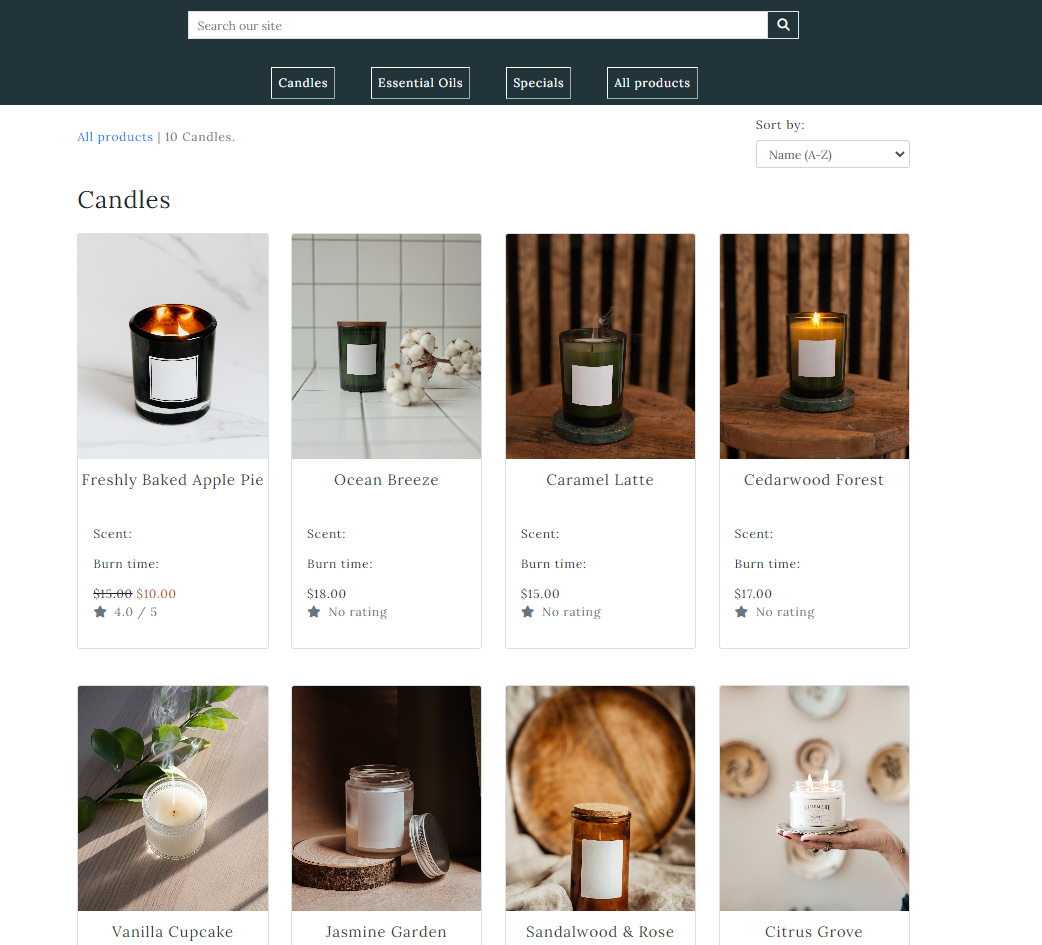
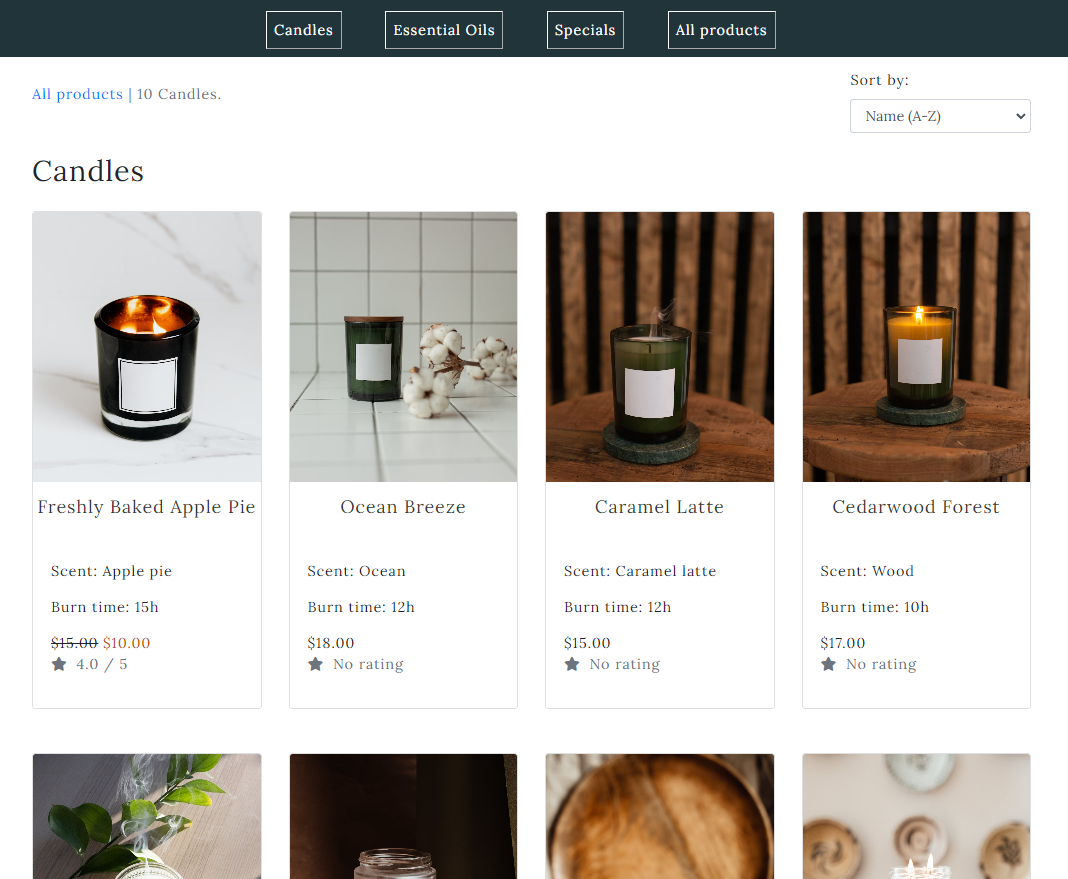
Add features documentation in README.md

diff --git a/catalog/templates/home/candles.html b/catalog/templates/home/candles.html
@@ -41,8 +41,10 @@
               <h5 class="card-title py-3 text-dark text-center">{{ product.name }}</h5>
             </a>
               <div class="card-body">
-                <p class="card-text">Scent: {{ product.scent }}</p>
-                <p class="card-text">Burn time: {{ product.burn_time }}</p>
+                {% if product.candle %}
+                <p class="card-text">Scent: {{ product.candle.scent }}</p>
+                <p class="card-text">Burn time: {{ product.candle.burn_time }}</p>
+                {% endif %}
                 {% if product.discounted_price %}
                 <del>${{ product.price }}</del> <span class="discount">${{ product.discounted_price }}</span>
                 {% else %}

diff --git a/catalog/templates/home/essential_oils.html b/catalog/templates/home/essential_oils.html
@@ -45,8 +45,10 @@
           <h5 class="card-title py-3 text-dark text-center">{{ product.name }}</h5>
         </a>
         <div class="card-body">
-          <p class="card-text">Scent: {{ product.scent }}</p>
-          <p class="card-text">Volume: {{ product.volume }}</p>
+          {% if product.essentialoil %}
+          <p class="card-text">Scent: {{ product.essentialoil.scent }}</p>
+          <p class="card-text">Volume: {{ product.essentialoil.volume }}</p>
+          {% endif %}
           {% if product.discounted_price %}
           <del>${{ product.price }}</del> <span class="discount">${{ product.discounted_price }}</span>
           {% else %}

diff --git a/README.md b/README.md
@@ -65,6 +65,11 @@
 
 ## Wireframes
 
+<img src="static/images/wireframe.png"> 
+
+<img src="static/images/wireframe-products.png"> 
+
+
 ## Model diagrams
 
 ## Marketing has been made via a [Facebook page](https://www.facebook.com/profile.php?id=100092371081770)
@@ -73,7 +78,7 @@
 
 ## Agile Methodology 
 ### This Project was built following agile methodology and practices
-
+[User stories](#user-stories) further down.
 
 # Features UX design
 
@@ -81,60 +86,96 @@
 
 <img src="static/images/landing-page.png">
 
+<img src="static/images/landing-page-2.png">
+
+### When a user first enters the website this is what they see, the landing page containing the navigation panel, footer and a hero image with links to the offers page that is just long enough so users can see there's further content down the page, the collections and the footer
+
 ## Navbar
 <img src="static/images/desktop-nav.png">
+
+### Navbar on desktop has all the links to other pages on display. The Logo is also a link to the landing page. "My account" is a dropdown menu with links to "My profile/Sign in/Register". The Bag icon is a link to the basket.
 
 <img src="static/images/mobile-nav.png">
 
 <img src="static/images/dropdown-nav.png">
 
+### On smaller devices, the products links are turned into a dropdown(hamburger) menu.
+
 ## Footer
 
 <img src="static/images/footer.png">
+
+### In the footer we have the newsletter subscription form, Contact Us address, links to social media, including our facebook page, and FAQ page.
 
 ## Products
 
 <img src="static/images/products-page.png">
 
+### On all products page we see candles and oils combined, we can sort by name/price/rating and filter to see only candles/oils
+
 <img src="static/images/product-detail.png">
+
+### In the product detail page, we can add to basket (up to 10 products), submit a review and edit/delete a product(Admin only).
 
 <img src="static/images/product-edit.png">
 
 <img src="static/images/product-management.png">
 
+### The admin has to option to enter the product management form the account dropdown where they can add more products to the store.
+
 ## Candles
 
 <img src="static/images/candles-page.png">
+
+### The candles page is only for products in the Candles category, we can see each candle with it's scent, burn time and rating(if any) and can perform sorting.
 
 ## Essential Oils
 
 <img src="static/images/oils-page.png">
 
+### The Oils page is only for products in the Oils category, we can see each oil with it's scent, volume and rating(if any) and can perform sorting.
+
 ## Specials
 
 <img src="static/images/specials-page.png">
+
+### In the specials page we have the products on sale ( with discounted price ).
 
 ## Basket
 
 <img src="static/images/basket-empty.png">
 
+### On an empty basket, we cannot see the Secure checkout button.
+
 <img src="static/images/basket.png">
 
+### The products added to the basket are laid out as a table. The quantity is updated instant on any whole number (up to 10)
+
 <img src="static/images/remove-from-basket.png">
+
+### Removing an item from the basket triggers a modal for confirmation
 
 ## Checkout
 
 <img src="static/images/checkout-page.png">
 
+### Once you have items in your basket you can then go to the checkout page, where you add your delivery details, apply coupon if any, and pay.
+
 ## Orders
 
 <img src="static/images/order.png">
 
+### The order success confirmation is triggered after a successful order has been placed, and a very similar email will be sent to your inbox.
+
 <img src="static/images/order-history.png">
+
+### In the order history page, all orders are laid out as a list displaying the order numbare and the date it's been made. Each link will bring up the order success page for that order
 
 ## Profile
 
 <img src="static/images/profile-page.png">
+
+### The fields in the profile page are in sync with the checkout page, once you put an order in, meaning that they update every time they a new input is provided. You can also set a new password if you wish so.
 
 ## Sign in/Register
 
@@ -144,6 +185,8 @@
 
 <img src="static/images/log-out.png">
 
+### Account creation is provided by django allauth, meaning everything from registering to loggin' out to resetting password.
+
 ## FAQ
 
 <img src="static/images/faq-page.png">
@@ -151,6 +194,8 @@
 ## 404 Page
 
 <img src="static/images/404.png">
+
+### The 404 page is triggered when a user tries to enter a link that's not connected with this website.
 
 ## Messages / Toasts
 
@@ -160,9 +205,12 @@
 <img src="static/images/message-4.png">
 <img src="static/images/message-5.png">
 
+### Messages are triggered as website feedback for users performing actions such as adding to basket/ successful order/ submitting forms...
 
 ## Features to be implemented
-* If a user is admin, Approve reviews from front-end
+* If the logged in user is the admin/staff, review and approve reviews from the front-end.
+* Provide recommendations to users based on their search/order history.
+* Update product management to see how many products are in stock; get notified if a stock is running low.
 
 # Technology used
 * HTML
@@ -178,6 +226,8 @@
 * Amazon web services
 
 ## User Stories
+
+
 
 ## Could have User Stories
 
